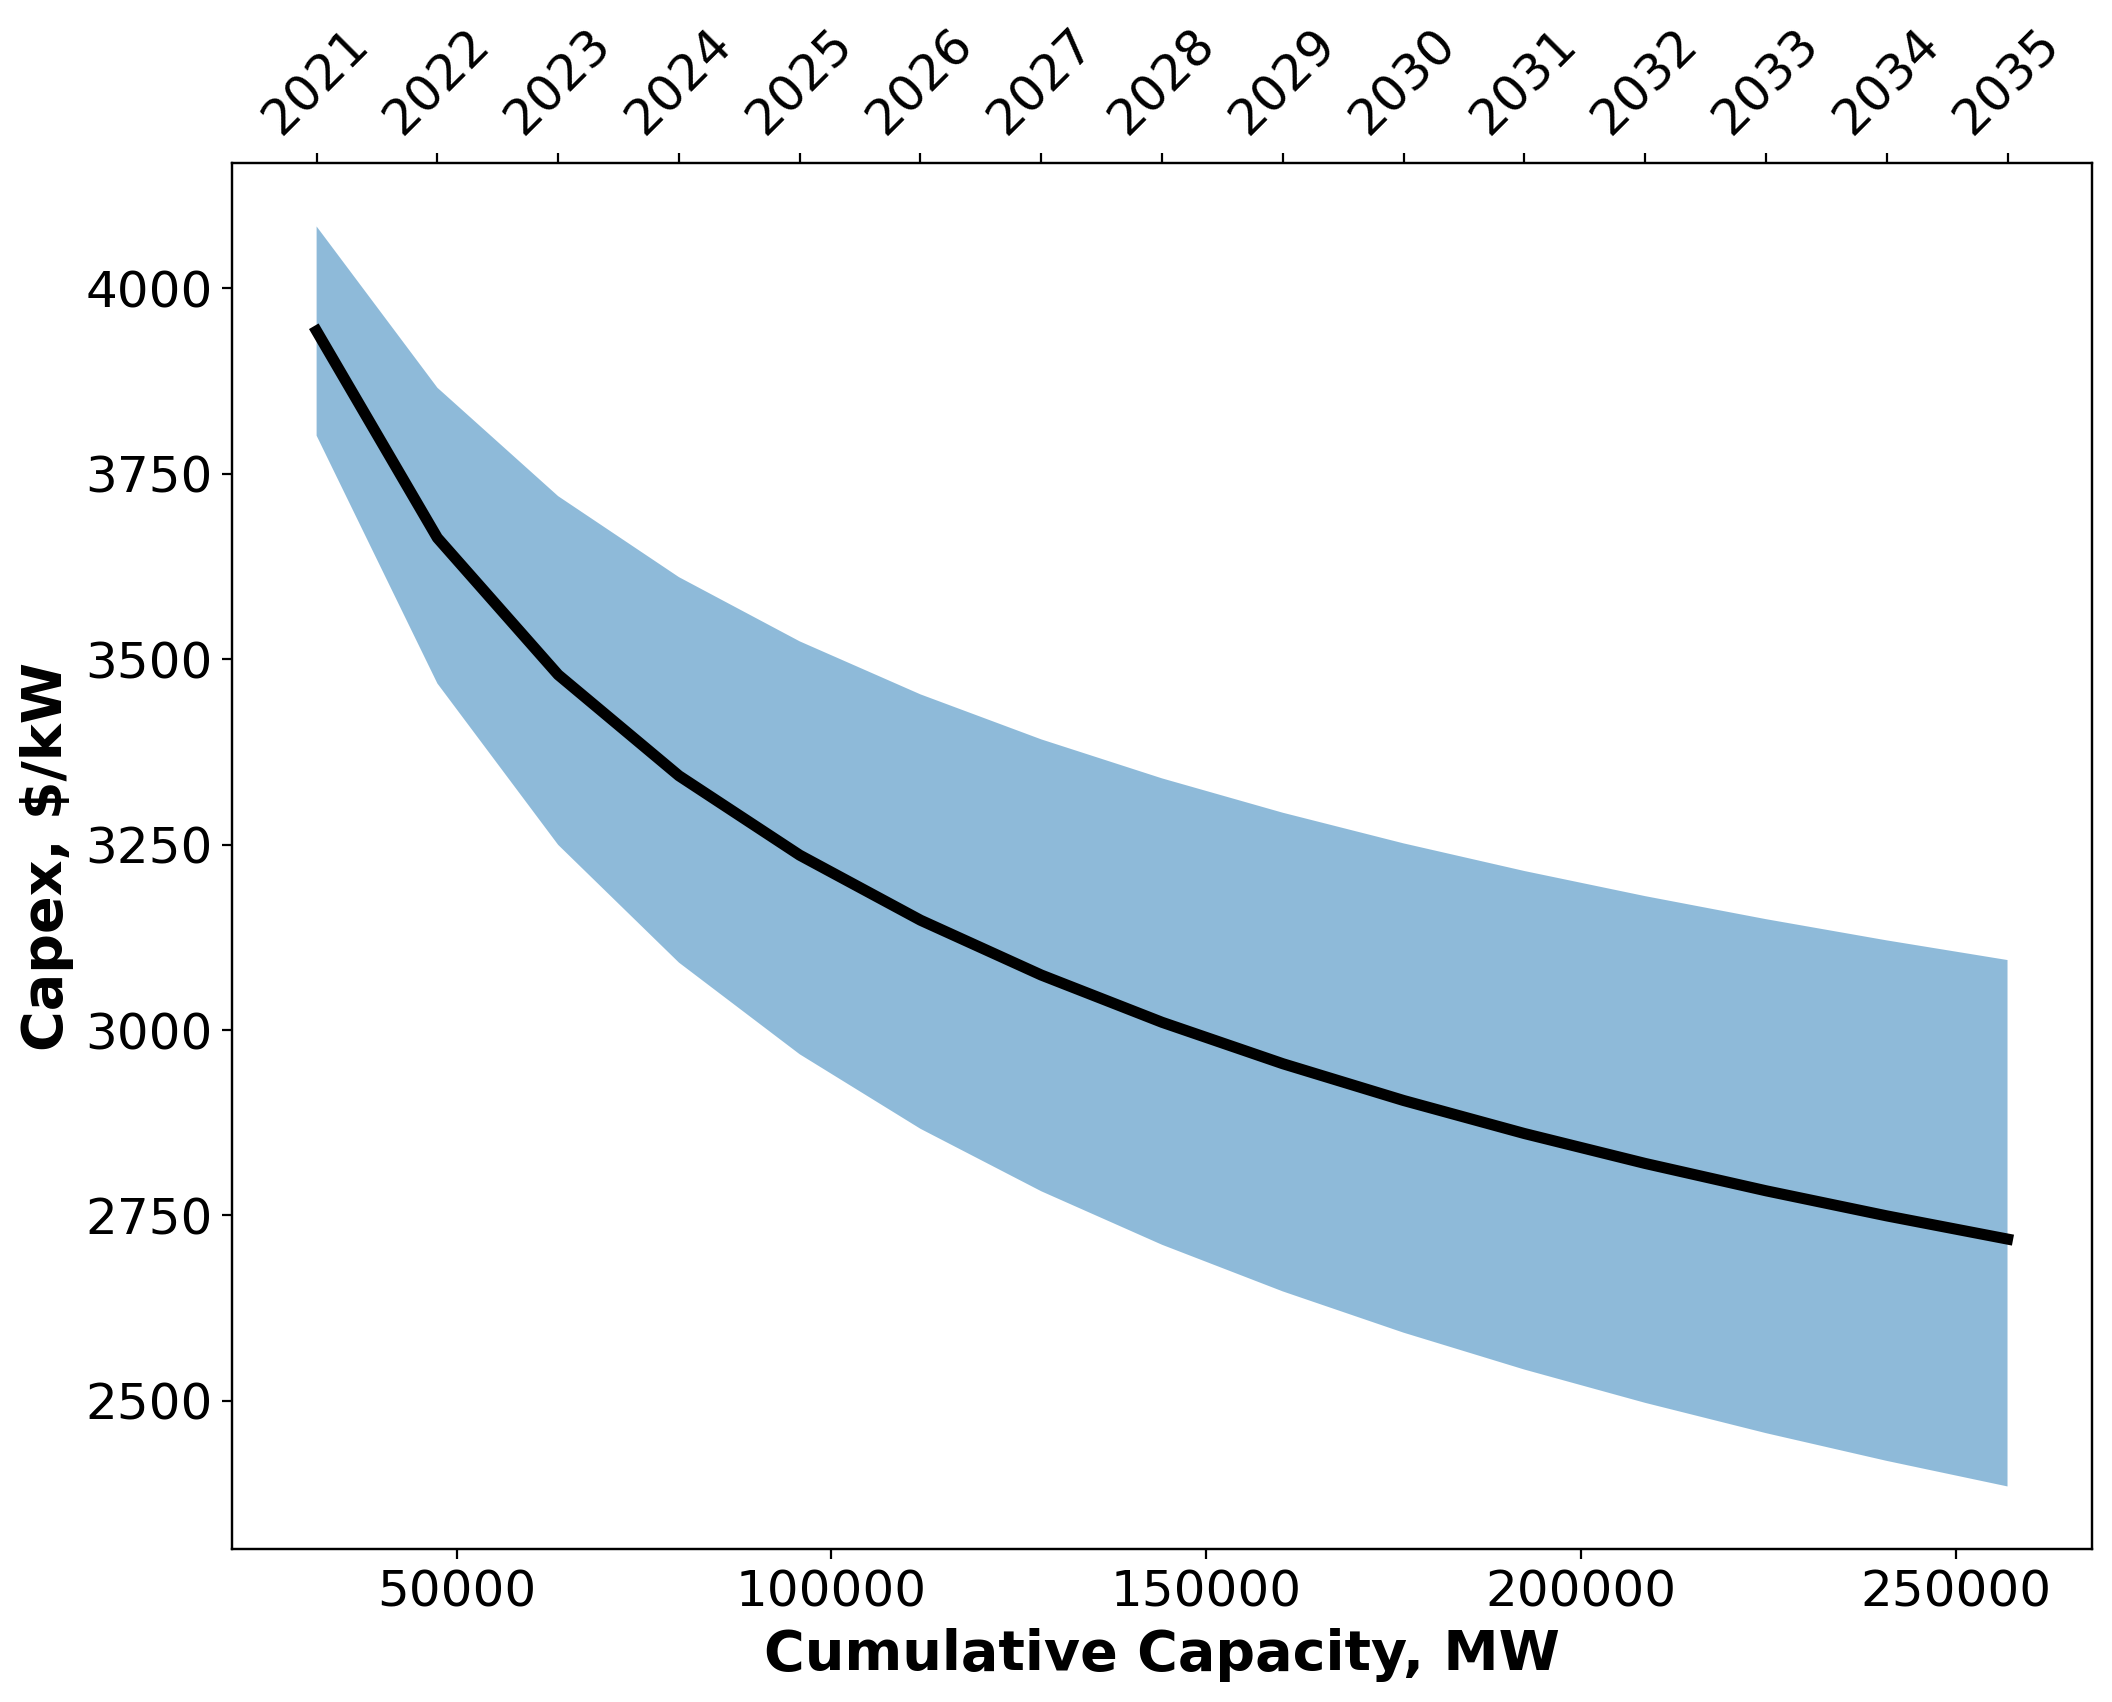
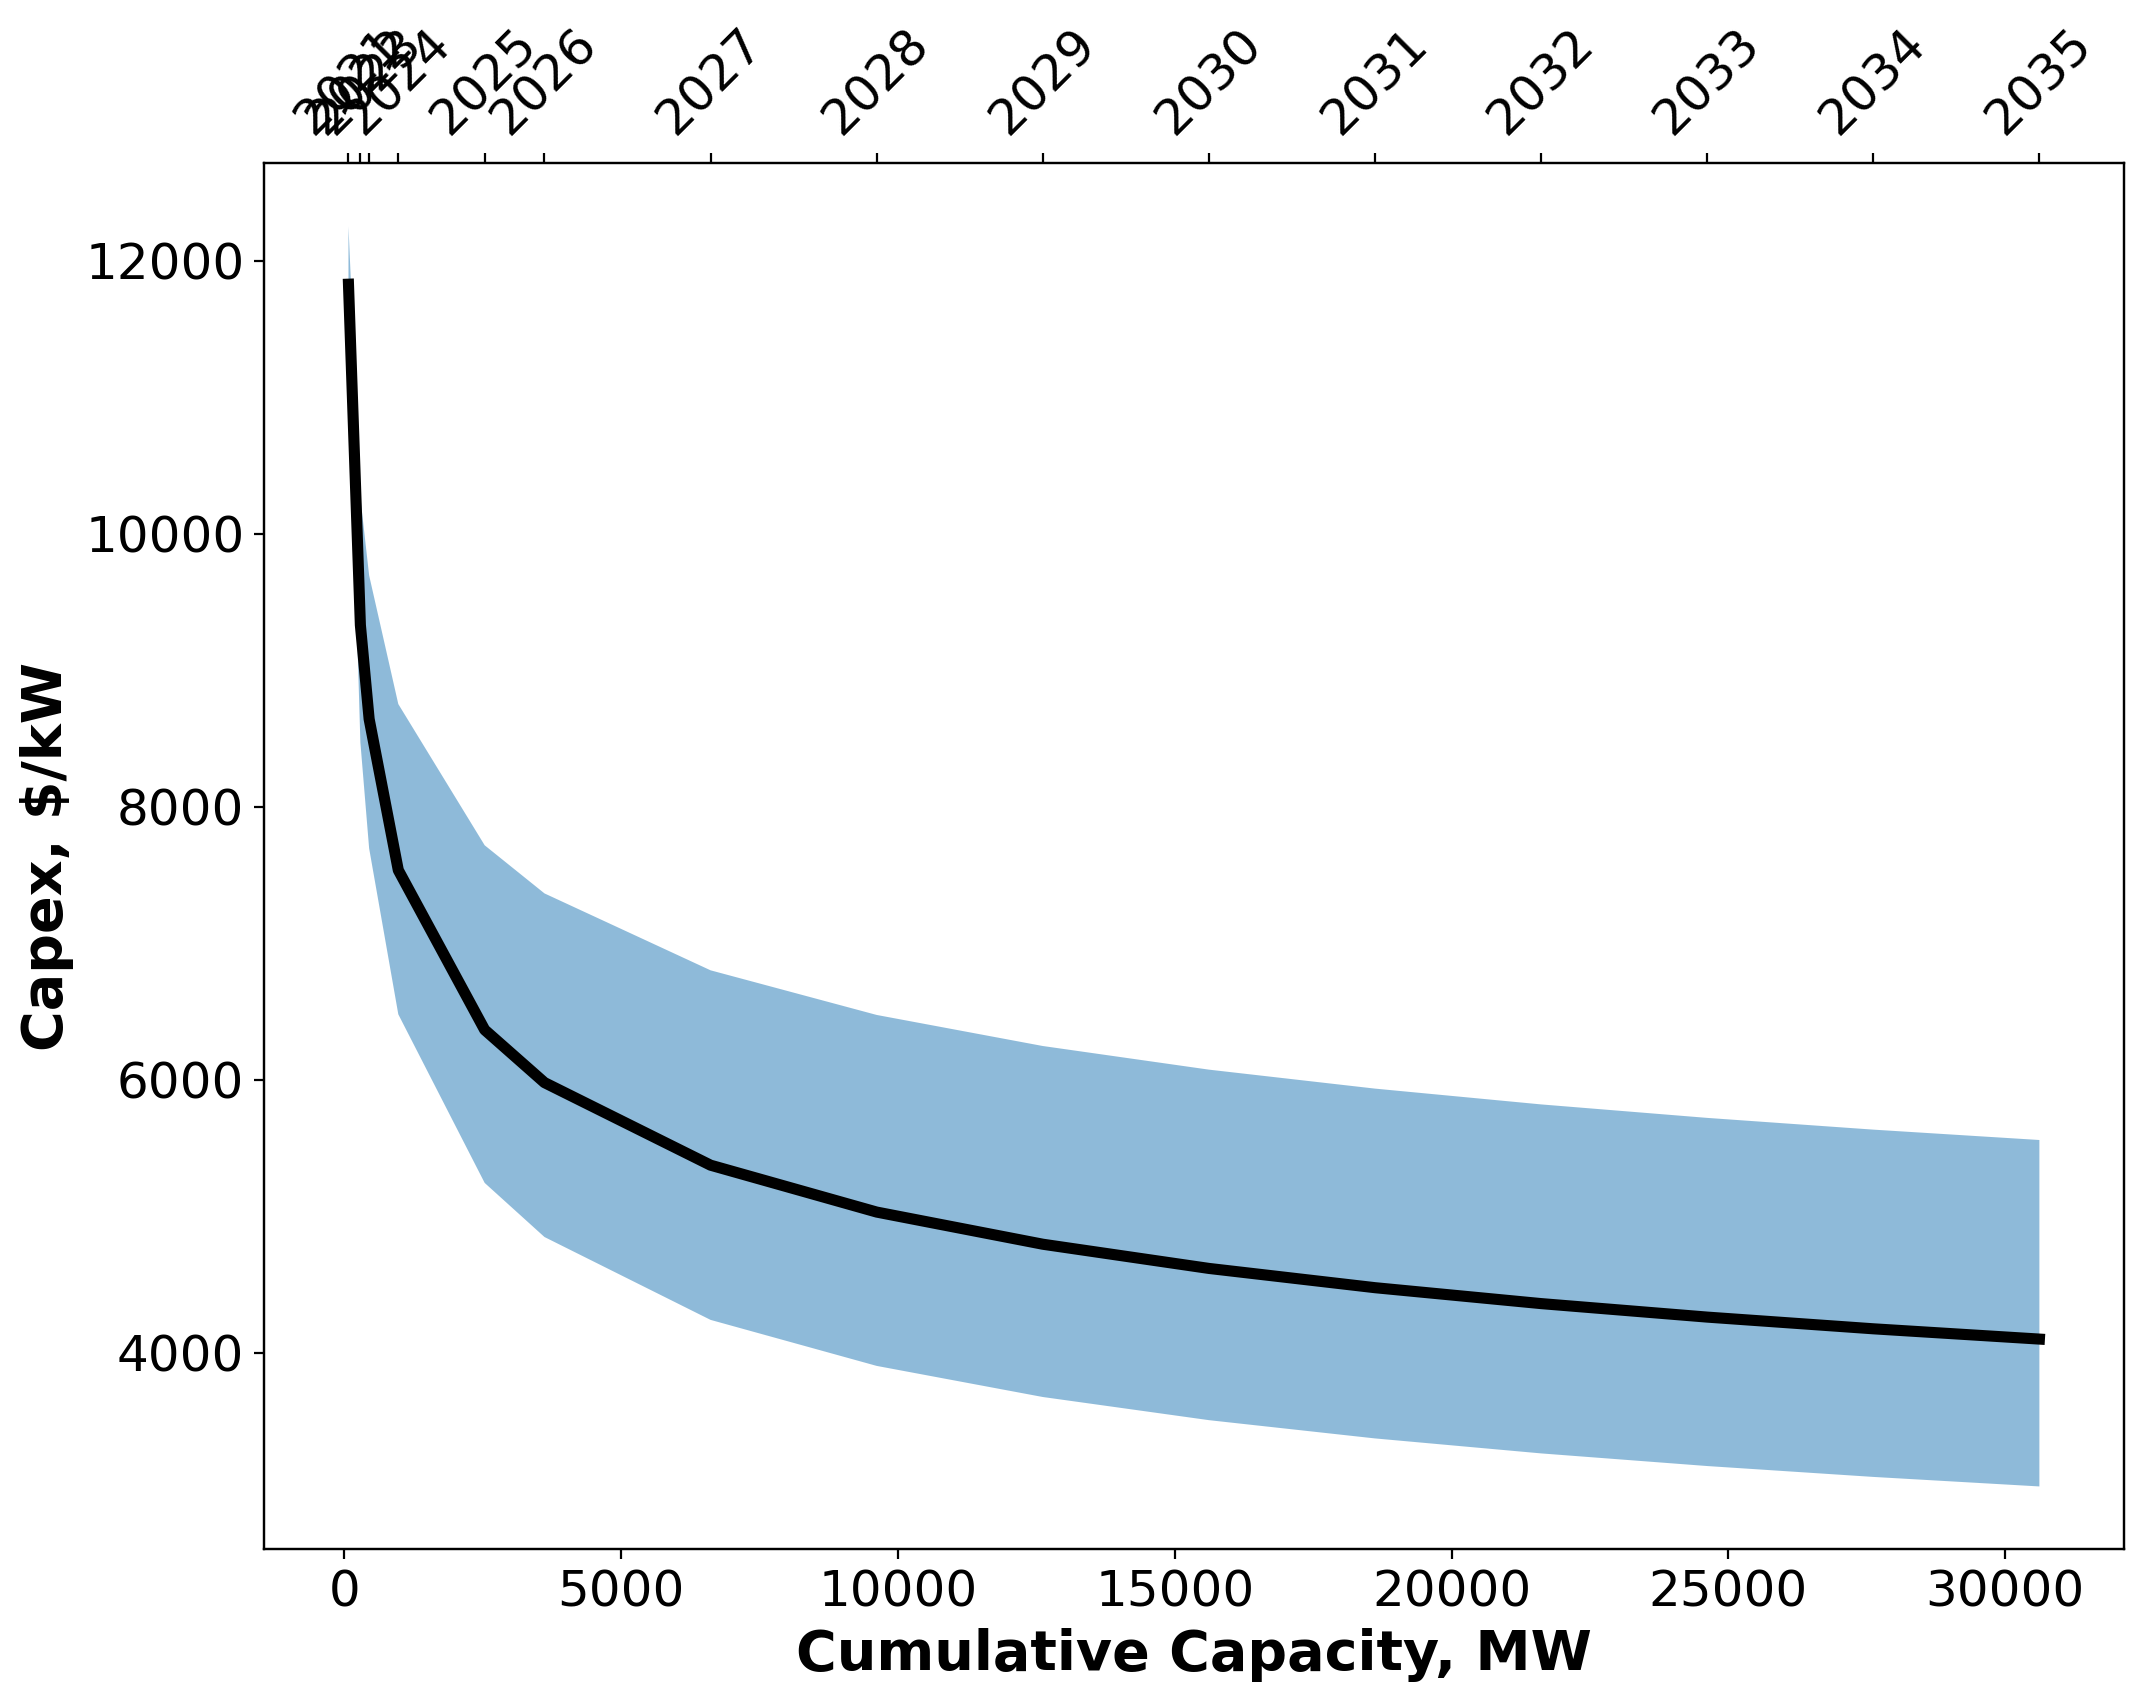
Added scaling factor for demo scale flaoting.  Added placeholder floating deployment pipeline

diff --git a/analysis/orbit_comparison.py b/analysis/orbit_comparison.py
@@ -27,8 +27,14 @@ initialize_library(LIBRARY)
 
 ### Initialize Data
 ## Forecast
-FORECAST_FP = os.path.join(DIR, "data", "2021_forecast.csv")
-FORECAST = pd.read_csv(FORECAST_FP).set_index("year").to_dict()["capacity"]
+FORECAST_FP_FIXED = os.path.join(DIR, "data", "2021_fixed_forecast.csv")
+FORECAST_FIXED = pd.read_csv(FORECAST_FP_FIXED).set_index("year").to_dict()["capacity"]
+FORECAST_FP_FLOATING = os.path.join(DIR, "data", "2021_floating_forecast.csv")
+FORECAST_FLOATING = pd.read_csv(FORECAST_FP_FLOATING).set_index("year").to_dict()["capacity"]
+
+## Scaling factor for demonstration-scale floating capex
+FLOATING_DEMO_SCALE = 3
+FLOATING_CAPACITY_2021 = 72
 
 ## Regression Settings
 PROJECTS = pd.read_csv(os.path.join(DIR, "data", "2021_OWMR.csv"), header=2)
@@ -260,7 +266,12 @@ def run_orbit_configs(sites, b0, upcoming, years, initial_capex=None, fixfloat='
             project = ProjectManager(config, weather)
             project.run()
 
-            site_data.loc[int(yr), "ORBIT"] = project.total_capex_per_kw
+            if fixfloat == 'fixed':
+                site_data.loc[int(yr), "ORBIT"] = project.total_capex_per_kw
+            else:
+                # Scale floating Capex to demo scale projects
+                site_data.loc[int(yr), "ORBIT"] = project.total_capex_per_kw * FLOATING_DEMO_SCALE
+
 
         min_yr = min(configs.keys())  # TODO: What if min_yr doesn't line up with first forecast year?
 
@@ -306,13 +317,19 @@ def regression_and_plot(FORECAST, PROJECTS, FILTERS, TO_AGGREGATE, TO_DROP, PRED
     res_x, res_y = stats_check(regression)
     b0 = regression.cumulative_capacity_fit
     bse = regression.cumulative_capacity_bse
-    upcoming_capacity = {
-        k: v - regression.installed_capacity for k, v in linear_forecast.items()
-    }
+    if fixfloat == 'fixed':
+        # Todo: Should this also be FORECAST instead of linear_forecast?
+        upcoming_capacity = {
+            k: v - regression.installed_capacity for k, v in linear_forecast.items()
+        }
+    else:
+        # Todo: Move to Regression class
+        upcoming_capacity = {
+            k: v - FLOATING_CAPACITY_2021 for k, v in FORECAST.items()
+        }
 
     # ORBIT Results
     combined_outputs = run_orbit_configs(ORBIT_SITES, b0, upcoming_capacity, years, fixfloat=fixfloat)
-    print(combined_outputs)
     initial_capex_range = combined_outputs.loc[2021, 'ORBIT'].values
     avg_start = pd.pivot_table(combined_outputs.reset_index(), values='ORBIT', index='index').iloc[0].values[0]
     std_start =  \
@@ -399,20 +416,20 @@ def regression_and_plot(FORECAST, PROJECTS, FILTERS, TO_AGGREGATE, TO_DROP, PRED
 if __name__ == "__main__":
 
     # Fixed bottom
-    # regression_and_plot(FORECAST, PROJECTS, FILTERS, TO_AGGREGATE, TO_DROP, FIXED_PREDICTORS, ORBIT_FIXED_SITES)
+    # regression_and_plot(FORECAST_FIXED, PROJECTS, FILTERS, TO_AGGREGATE, TO_DROP, FIXED_PREDICTORS, ORBIT_FIXED_SITES)
 
     # Floating
-    float_phases = ['ArraySystemDesign',
-                    'MooringSystemDesign',
-                    'ExportSystemDesign',
-                    'SemiSubmersibleDesign',
-                    'OffshoreSubstationDesign',
-                    'ArrayCableInstallation',
-                    'ExportCableInstallation',
-                    'MooringSystemInstallation',
-                    'MooredSubInstallation',]
-    pp.pprint(ProjectManager.compile_input_dict(float_phases))
-    regression_and_plot(FORECAST, PROJECTS, FILTERS, TO_AGGREGATE, TO_DROP, FLOAT_PREDICTORS, ORBIT_FLOATING_SITES,
+    # float_phases = ['ArraySystemDesign',
+    #                 'MooringSystemDesign',
+    #                 'ExportSystemDesign',
+    #                 'SemiSubmersibleDesign',
+    #                 'OffshoreSubstationDesign',
+    #                 'ArrayCableInstallation',
+    #                 'ExportCableInstallation',
+    #                 'MooringSystemInstallation',
+    #                 'MooredSubInstallation',]
+    # pp.pprint(ProjectManager.compile_input_dict(float_phases))
+    regression_and_plot(FORECAST_FLOATING, PROJECTS, FILTERS, TO_AGGREGATE, TO_DROP, FLOAT_PREDICTORS, ORBIT_FLOATING_SITES,
                         fixfloat='floating')
 
 
